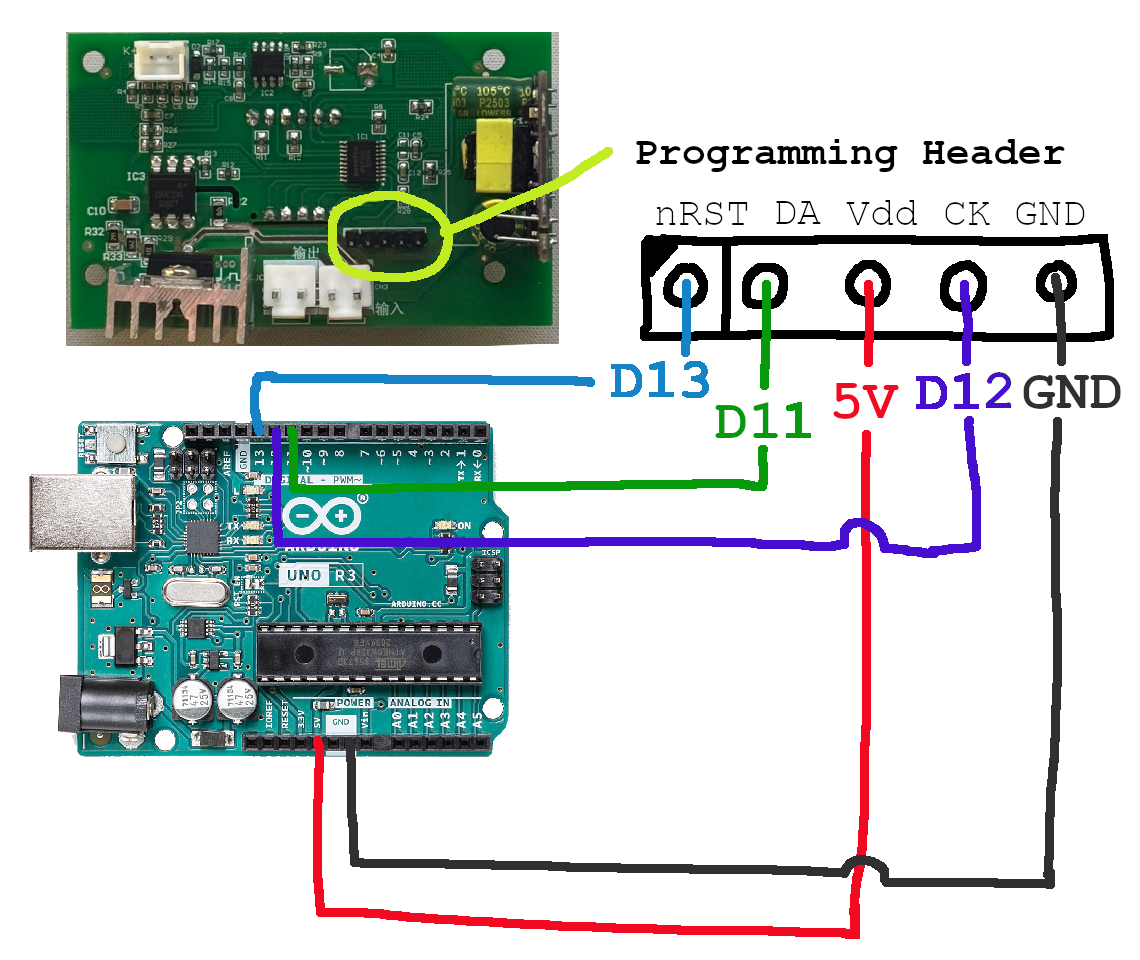
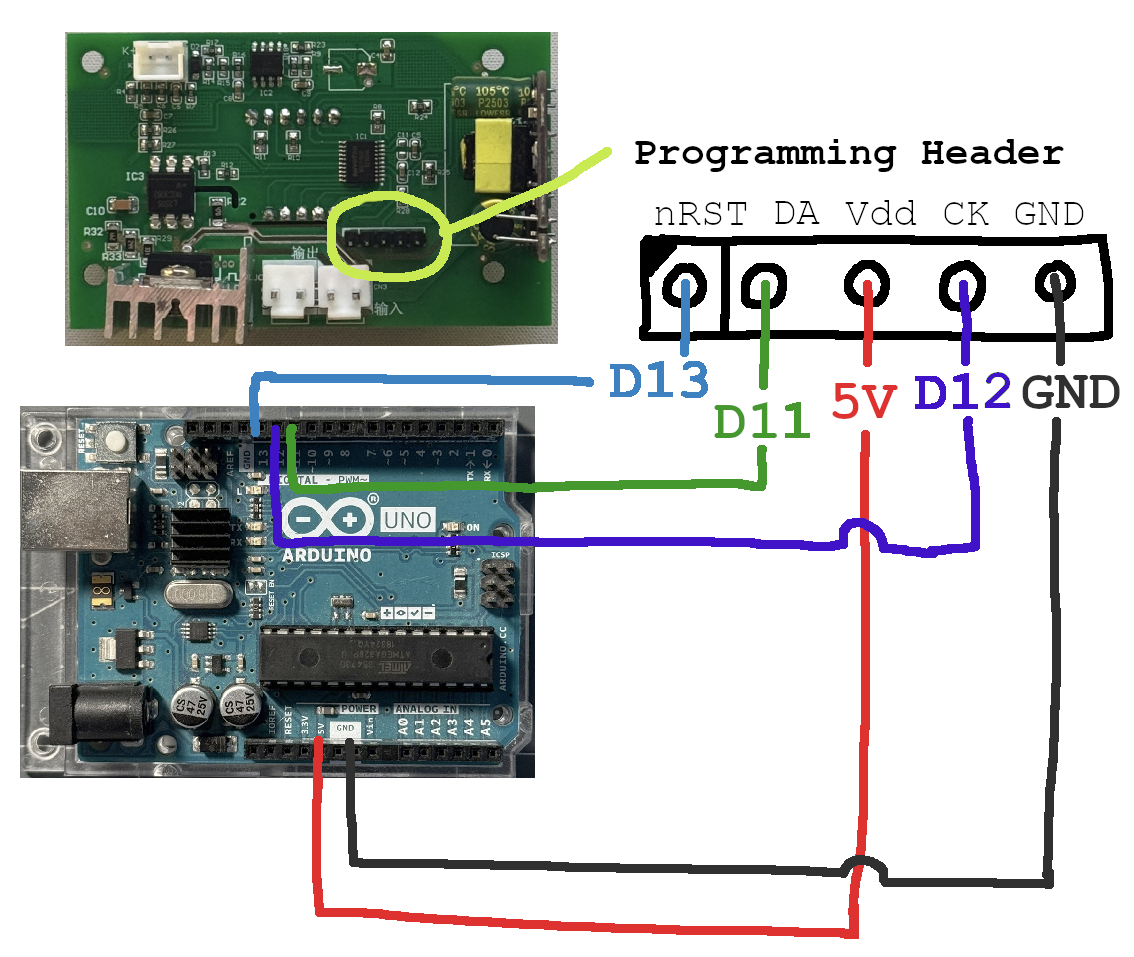
replace product images with my own photographs

Changed region(s): [[0.0, 0.0303, 0.9877, 1.0]]

diff --git a/README.md b/README.md
@@ -7,7 +7,7 @@ An open alternative firmware for generic "MicroComputer Constant Temperature"-st
 - Tested on the 350W (110V, 400C) 100mm x 100mm model. (PCB: `SW-1010 V1.96`)
 - Don't use this device on circuits that are not 110V 60Hz.
 
-![source: amazon.com](/images/product.png)
+![](/images/product.png)
 
 
 ## Features
@@ -32,7 +32,7 @@ An open alternative firmware for generic "MicroComputer Constant Temperature"-st
 ***IMPORTANT: UNPLUG THE HOTPLATE FIRST*** 
 - Wire your programmer to the chip. The MS51FB9AE firmware must be flashed over ICP, and I use an Arduino Uno R3 as a bridge.
 ![](/images/header_pinout.png)
-- Be careful if you power the hot plate over AC. It will be partially disassembled while connected to the programmer. Do not touch the internals of the device at all while it is plugged in.
+- Be careful if you power the hot plate over AC. It will be partially disassembled while connected to the programmer. Do not touch the internals of the device at all while it is plugged in. You only need to do this if you are running a calibration routine or developing; otherwise, you don't even need to solder a connector to the PCB; simply hold the pins in place (with the device unplugged) during the flash.
 - Do not connect the +5V wire while the board is powered from its own supply. A common ground connection is fine, and actually required to complete the (optional) calibration.
 - While developing, especially reading from or calibrating the sensor, you must use a laptop on battery. An earthed PC will offset the ADC readings significantly, as the thermocouple is earthed and you will cause grounding issues.
 
